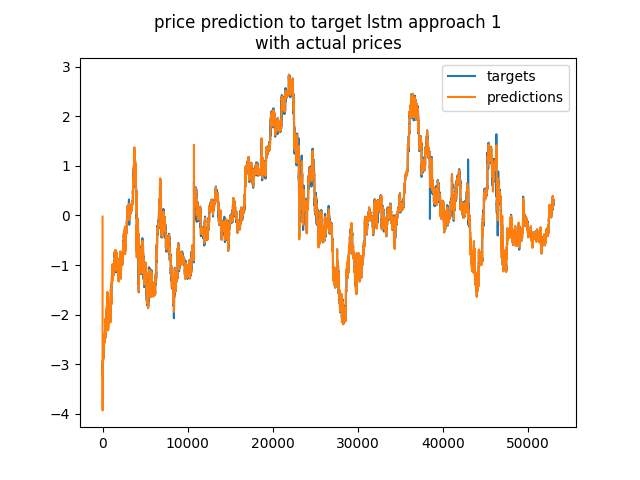
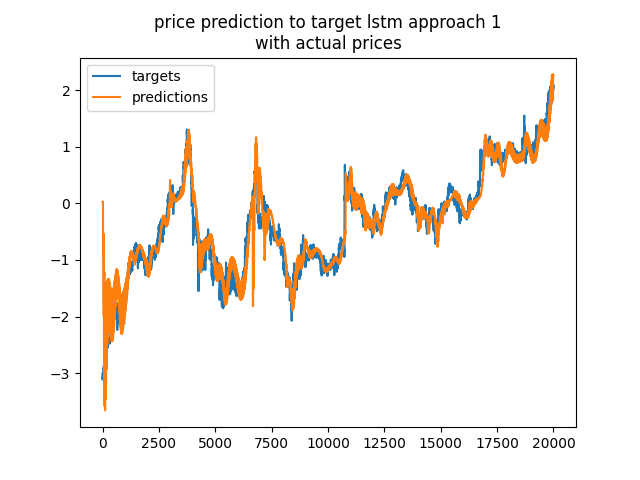
Reworked training to include loader, different num_layers

diff --git a/model/lstm_approach_1.py b/model/lstm_approach_1.py
@@ -50,16 +50,16 @@ def make_sequence(data, data_col, seq_len=sequence_length, step_size=1):
 
 class Data(Dataset):
     def __init__(self, data, window, step_size=1):
-        self.data = torch.Tensor(data)
+        self.data = data
         self.window = window
         self.step_size = step_size
         self.shape = self.__getshape__()
         self.size = self.__getsize__()
 
     def __getitem__(self, index):
-        x = self.data[index : index + self.window]
-        y = self.data[index + self.step_size : index + self.window + self.step_size]
-        return x, y
+        x = self.data.iloc[index: index + self.window, 1:]
+        y = self.data.iloc[index + self.window + self.step_size, 1:]
+        return torch.tensor(x.to_numpy(), dtype=torch.float32), torch.tensor(y, dtype=torch.float32)
 
     def __len__(self):
         return len(self.data) - self.window
@@ -88,54 +88,56 @@ def prep_arr(df, time_col, data_col):
     arr = np.array(data_values)
 
     dataset = Data(arr, seq_length)
+    print(dataset[0])
 
-    data_load = DataLoader(dataset
-                           , batch_size=batch_size
-                           , drop_last=True
-                           , num_workers=num_workers
-                           , pin_memory=pin_memory)
-
-    print(data_load)
-
+    # data_load = DataLoader(dataset
+    #                        , batch_size=batch_size
+    #                        , drop_last=True
+    #                        , num_workers=num_workers
+    #                        , pin_memory=pin_memory)
+    #
+    # print(data_load)
+    print(data_dict)
     return data_dict
 
 
 class Model(nn.Module):
 
     def __init__(self
-                 , input_dim=1
+                 , input_dim=sequence_length
                  , hidden_dim=sequence_length
                  , output_dim=1
-                 # , num_layers=2
+                 , num_layers=1
                  , device=device
                  ):
 
         super(Model, self).__init__()
 
-        self.device=device
+        self.device = device
         self.input_dim = input_dim
         self.hidden_dim = hidden_dim
-        # self.num_layers = num_layers
+        self.hidden = None
+        self.num_layers = num_layers
 
         # Define the LSTM layer
-        self.lstm = nn.LSTM(self.input_dim, self.hidden_dim)
+        self.lstm = nn.LSTM(input_size=self.input_dim, hidden_size=self.hidden_dim, num_layers=self.num_layers)
 
         # Define the output layer
         self.linear = nn.Linear(self.hidden_dim, output_dim)
 
     def init_hidden(self):
         # This is what we'll initialise our hidden state as
-        return (torch.zeros(1,1, self.hidden_dim, device=self.device),
-                torch.zeros(1,1, self.hidden_dim, device=self.device))
+        return (torch.zeros(self.num_layers, 1, self.hidden_dim, device=self.device),
+                torch.zeros(self.num_layers, 1, self.hidden_dim, device=self.device))
 
-    def forward(self, input):
+    def forward(self, x):
         # Forward pass through LSTM layer
 
-        lstm_out, self.hidden = self.lstm(input.view(len(input), 1, -1), self.hidden)
-        # Only take the output from the final timetep
+        lstm_out, self.hidden = self.lstm(x.view(len(x), 1, -1), self.hidden)
+        # Only take the output from the final timestep
 
-        predictions = self.linear(lstm_out.view(len(input), -1))
-        return predictions[-1]
+        predictions = self.linear(lstm_out.view(len(x), -1))
+        return predictions
 
 
 def train_model_1(df, epochs=3, learning_rate=0.01, run_model=True):
@@ -146,51 +148,63 @@ def train_model_1(df, epochs=3, learning_rate=0.01, run_model=True):
     preds = []
     targets = []
 
-    model = Model()
+    model = Model(num_layers=2)
     model = model.to(model.device)
     model.train()
 
-    data = prep_arr(df, time_col='t', data_col='c')
+    # data = prep_arr(df, time_col='t', data_col='c')
+    data = Data(df, sequence_length)
+    data_load = DataLoader(data
+                           , batch_size=20)
 
-    x_train, y_train = make_sequence(data=data, data_col='c')
+    # x_train, y_train = make_sequence(data=data, data_col='c')
 
-    x_train = x_train.to(model.device)
-    y_train = y_train.to(model.device)
+    # x_train = x_train.to(model.device)
+    # y_train = y_train.to(model.device)
 
     loss_function = nn.MSELoss()
     optimizer = torch.optim.Adam(model.parameters(), lr=learning_rate)
 
     if run_model:
+        for epoch in range(2):
+            epoch_preds = []
+            epoch_targets = []
+            for idx, (x, y) in enumerate(data_load):
+                if idx == 1000:
+                    break
+                x, y = x.to(device), y.to(device)
 
-        for idx, input in enumerate(x_train):
+                model.zero_grad()
+                model.hidden = model.init_hidden()
 
-            model.zero_grad()
-            model.hidden = model.init_hidden()
+                y_pred = model(x)
+                #FIXME (when reshaping the y target slicing)
 
-            y_pred = model(input)
-            preds.append(y_pred.item())
-            #FIXME (when reshaping the y target slicing)
-            y = torch.tensor([y_train[idx][-1]])
-            targets.append(y.item())
+                epoch_preds.append(y_pred.detach().numpy())
+                # y = torch.tensor([y_train[idx][-1]])
+                epoch_targets.append(y.detach().numpy())
 
-            # compare the last time step prediction to the first value of the next time step
-            y_pred = y_pred.to(model.device)
-            y = y.to(model.device)
-            loss = loss_function(y_pred, y)
 
-            losses.append(loss.item())
+                # compare the last time step prediction to the first value of the next time step
+                y_pred = y_pred.to(model.device)
+                y = y.to(model.device)
+                loss = loss_function(y_pred, y)
 
-            optimizer.zero_grad()
+                losses.append(loss.item())
 
-            loss.backward()
+                optimizer.zero_grad()
 
-            optimizer.step()
+                loss.backward()
 
-            if idx % 1000 == 0:
-                print('Epoch: {}.............'.format(idx), end=' ')
-                print("Loss: {:.4f}".format(loss.item()))
+                optimizer.step()
 
-            # end loop 1
+                if idx % 1000 == 0:
+                    print('Epoch: {}.............'.format(idx), end=' ')
+                    print("Loss: {:.4f}".format(loss.item()))
+
+                # end loop 1
+            preds.append(epoch_preds)
+            targets.append(epoch_targets)
 
         plt.figure()
         plt.plot(losses, label='train loss')
@@ -199,12 +213,24 @@ def train_model_1(df, epochs=3, learning_rate=0.01, run_model=True):
         plt.savefig('figures/lstm_approach_1_loss_actual.png')
         plt.show()
 
+        targets0 = np.concatenate(targets[0])
+        preds0 = np.concatenate(preds[0])
         plt.figure()
-        plt.plot(targets, label='targets')
-        plt.plot(preds, label='predictions')
+        plt.plot(targets0, label='targets')
+        plt.plot(preds0, label='predictions')
         plt.title('price prediction to target lstm approach 1\nwith actual prices')
         plt.legend()
-        plt.savefig('figures/lstm_approach_1_predictions_actual.png')
+        # plt.savefig('figures/lstm_approach_1_predictions_actual.png')
+        plt.show()
+
+        targets0 = np.concatenate(targets[1])
+        preds0 = np.concatenate(preds[1])
+        plt.figure()
+        plt.plot(targets0, label='targets')
+        plt.plot(preds0, label='predictions')
+        plt.title('price prediction to target lstm approach 1\nwith actual prices')
+        plt.legend()
+        # plt.savefig('figures/lstm_approach_1_predictions_actual.png')
         plt.show()
     else:
         print('not running model')

diff --git a/main.py b/main.py
@@ -2,7 +2,7 @@
 from utilities.get_data import *
 from utilities.clean_data import *
 from utilities.sentiment_data import *
-from utilities.run_arima import *
+# from utilities.run_arima import *
 from utilities.prep_stock_data import *
 from model.lstm_approach_1 import *
 
@@ -15,21 +15,22 @@ stock_df = get_stock_dummies()
 # train_arima(timeseries=stock_df, time_col='t')
 
 # split data into train, validation, and testing
-train, valid, test = split_stock_data(df=stock_df, time_col='t')
+train, valid, test = split_stock_data(df=stock_df[['t', 'c']], time_col='t')
 
 # run dev against by-the-minute closing prices c and time t
-train_data = train[['t', 'c']].copy()
+# train_data = train[['t', 'c']].copy()
 
 # develop lstm model approach #1 on train_data, then do again with scaled data
 # train_model_1(train_data, run_model=False)
 
 # scale stock data
-train_scaled, valid_scaled, test_scaled = scale_stock_data(train=train
-                                                           , valid=valid
-                                                           , test=test
-                                                           )
-train_data = train_scaled[['t', 'c']].copy()
-train_model_1(train_data)
+train_scaled, valid_scaled, test_scaled, scaler = scale_stock_data(train=train
+                                                                   , valid=valid
+                                                                   , test=test
+                                                                   , cols=['c']
+                                                                   )
+# train_data = train_scaled[['t', 'c']].copy()
+train_model_1(train_scaled, run_model=True)
 
 ###
 

diff --git a/utilities/prep_stock_data.py b/utilities/prep_stock_data.py
@@ -37,6 +37,7 @@ def split_stock_data(df, time_col, pct_train=.7, pct_valid=.15, pct_test=.15):
     return train, valid, test
 
 def scale_stock_data(train, valid, test, cols=None):
+    # returning the scaler allows for doing .inverse_transform()
     if cols is None:
         # scale all but the time column
         cols = ['v', 'vw', 'o', 'c', 'h', 'l', 'n']
@@ -50,6 +51,6 @@ def scale_stock_data(train, valid, test, cols=None):
     print('Scaled stock data. Fit_transform on train, transformed validation, and test.')
 
 
-    return train, valid, test
+    return train, valid, test, scaler
 
 
